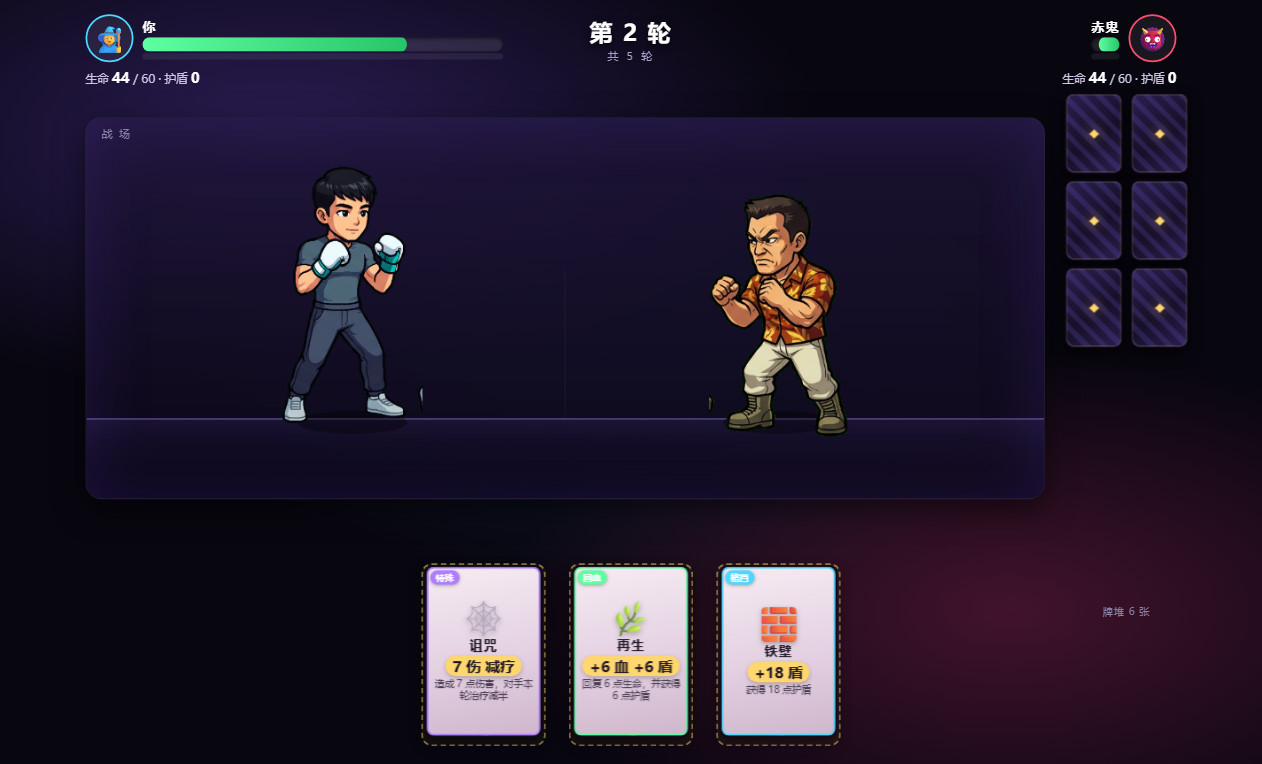
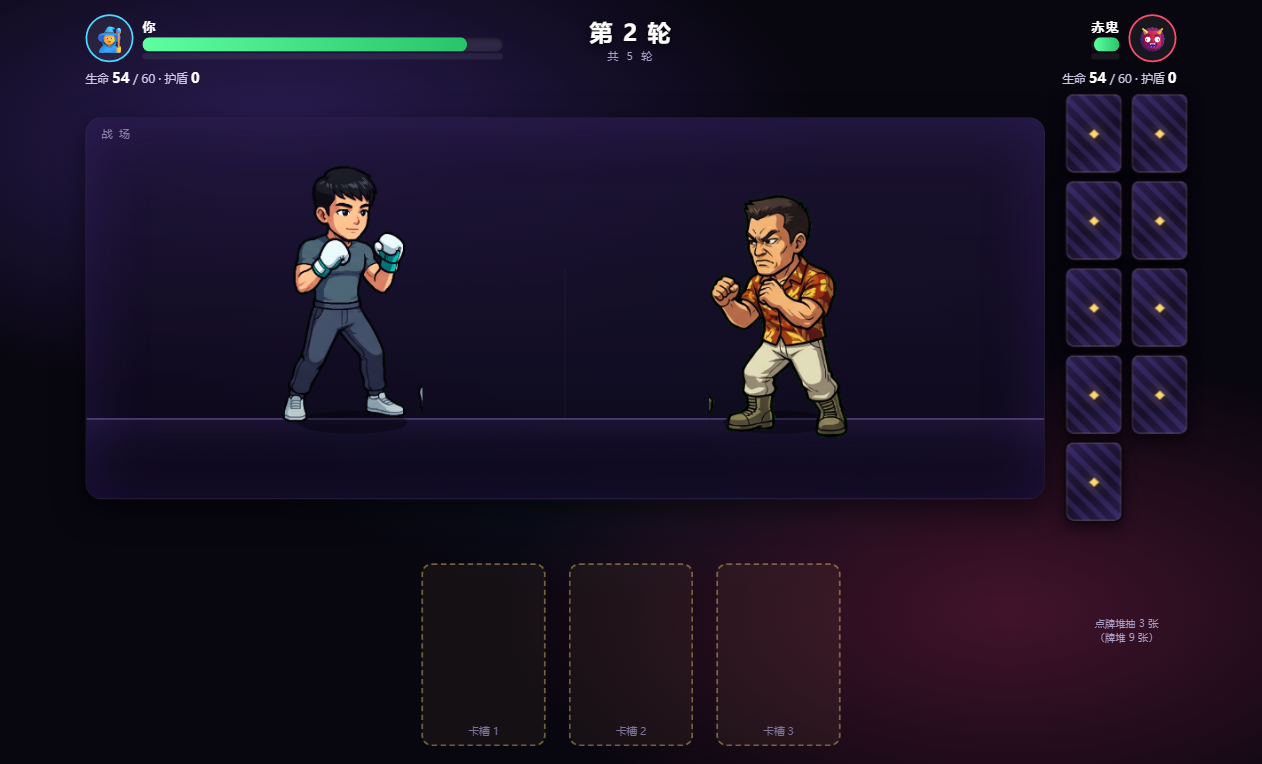
卡牌对决：抽牌改成玩家自己点（不再是自动抽）
玩家反馈："这个卡牌都成自动抽的，不是我自己选择抽的了"

第一版理解错了需求里那句"需要我点击选择了那几张卡牌" ——
当时是我自动抽 3 张飞到卡槽，玩家只能在抽出来的牌里挑一张打。
现在改成**两次都由玩家点**：
  ① 抽牌阶段：中央 12 张卡背，点哪张就抽哪张（点一次少一张，飞向卡槽并 3D 翻面）
  ② 出牌阶段：抽满 3 张后才出现"点牌出招"，点选的那张高亮、其余变暗

配套改动：
  · 新增 phase 阶段机（draw → pick → resolve）。
    ⚠ 必须显式存 phase，不能用"手牌数量"推断：飞行动画期间手牌张数是不确定的，
      靠数量判断会在动画中途把玩家放进"选牌"阶段，点下去没反应。
  · 卡背加可点反馈：悬停上浮 + 金色描边 + 手型光标；被抽走的那张淡出并立刻停止接收点击。
  · 空卡槽在抽牌阶段加金色描边，让玩家知道牌会落到哪里。
  · 状态行改成跟着阶段说人话：「点牌堆抽 N 张（牌堆 M 张）」/「三张已抽好 —— 点下面的牌出招」。
  · 删掉 syncDeckVisual()：那是自动抽牌时代用来"反推中央该剩几张"的模拟函数。
    现在中央张数**就是**真牌堆张数，两边天然一致，模拟层只会带来走偏的风险。

真跑抓出的一个死锁（只有打完 5 轮才会暴露）：
  12 张牌抽 4 轮正好抽干，第 5 轮需要重洗 —— 但重洗原来只在 drawCards 内部做，
  于是逻辑补上了牌、**中央卡背还停在 0 张**：玩家看到空牌堆、没有可点的卡，
  整局卡死在第 5 轮的抽牌阶段（无头脚本循环 90 次都停在「第 5 轮 ph=draw pick=0」）。
  修法：新增 ensureDrawable(n)，在 startRound **发牌之前**就把牌堆洗回来并重建卡背。

工具同步：
  · cardfight-shot.js 改成"自己抽牌"驱动 —— 按**真实屏幕坐标**挑左上角那张卡背来点
    （不能用 #deck .card:nth-child(n)：网格抽走一张会重排，"第 n 个"≠"第 n 格"）；
    循环上限 30 → 90（一轮 = 3 次抽牌 + 1 次出牌，30 次会在第 4 轮用尽）。
  · cardfight-check.js 72 → 77 条，新增：ensureDrawable 存在、startRound 里
    "先 ensureDrawable 再重画卡背"的顺序、有 phase 阶段机、旧模拟函数已删。

验证：cardfight-check 77/77 · CDP 整局零 JS 错误
  · 抽牌轨迹：牌堆 12 → 11 → 10 张（点一次少一张）
  · 5 轮收官 poses=ko/idle（输家倒地）· flies=15（5×3 全手抽）

diff --git a/cardfight.html b/cardfight.html
@@ -183,8 +183,16 @@ body{
       gap:6px 8px;place-content:center;transition:opacity .35s}
 #deck.gone{opacity:0}
 #deck .card{position:relative;width:66px;height:92px;--cw:66px;--ch:92px}
-#deckPile{position:absolute;right:12px;top:680px;width:140px;text-align:center;
-      font-size:11.5px;color:#8a80a8;letter-spacing:1px}
+/* 牌堆里的卡背**是可点的**（玩家自己抽），所以必须有可点的反馈：
+   悬停上浮 + 金色描边 + 手型光标；已抽走的那张淡出并立刻停止接收点击。 */
+#deck .card.pickable{cursor:pointer}
+#deck .card.pickable:hover{transform:translateY(-7px) scale(1.07);filter:brightness(1.25)}
+#deck .card.pickable:hover .back{box-shadow:inset 0 0 0 2px rgba(255,215,110,.95), 0 8px 20px rgba(0,0,0,.6)}
+#deck .card.picked{opacity:0;transform:scale(.7);transition:opacity .25s, transform .25s;pointer-events:none}
+/* 空着的卡槽在"抽牌阶段"要更显眼，让玩家知道牌会落到哪里 */
+.slot.waiting{border-color:rgba(255,215,110,.4);background:rgba(255,215,110,.05)}
+#deckPile{position:absolute;right:6px;top:694px;width:152px;text-align:center;
+      font-size:11px;color:#a99fc4;letter-spacing:.5px;line-height:1.45}
 
 /* ── 人物战场（canvas）─────────────────────────────────────────────
    延用打斗 2.0 的立绘与侧视舞台（art/fight2/*.png），所以这里是一块画布，
@@ -782,7 +790,12 @@ function newState() {
     p: { hp: MAXHP, shield: 0, charge: false, curse: false, dealt: 0 },
     e: { hp: MAXHP, shield: 0, charge: false, curse: false, dealt: 0 },
     deck: [],                        // 抽牌堆（洗过牌）
-    hand: [],                        // 本轮 3 张
+    hand: [],                        // 本轮已抽到的牌（最多 HAND 张）
+    /* phase 是这一轮的阶段机：draw（你点牌堆抽）→ pick（选一张打）→ resolve → 下一轮。
+       ⚠ 必须显式存它，不能用"手牌数量"推断：手牌张数在飞行动画期间是不确定的，
+         靠数量判断会在动画中途把玩家放进"选牌"阶段（点空白处没反应）。 */
+    phase: "draw",
+    drawn: 0,                        // 本轮已抽几张（上限 HAND）
     picked: -1,                      // 玩家选中的槽位
     eCard: null,                     // 对手本轮出的牌
     log: [],
@@ -893,38 +906,29 @@ function paintHud() {
   $("pBadges").innerHTML = badge(S.p);
   $("eBadges").innerHTML = badge(S.e);
   $("roundTxt").textContent = "第 " + S.round + " 轮";
-  $("deckPile").textContent = "牌堆 " + S.deck.length + " 张";
+  /* 牌堆标签要跟着阶段说清"现在该你做什么" —— 这里是玩家唯一会盯着看的地方 */
+  const left = HAND - (S.drawn || 0);
+  $("deckPile").textContent = (S.phase === "draw")
+    ? "点牌堆抽 " + left + " 张\n（牌堆 " + S.deck.length + " 张）"
+    : "牌堆 " + S.deck.length + " 张";
+  $("deckPile").style.whiteSpace = "pre-line";
+  /* 抽牌阶段给空卡槽加提示描边，抽满就撤掉 */
+  document.querySelectorAll("#slots .slot").forEach((el, i) => {
+    el.classList.toggle("waiting", S.phase === "draw" && i >= (S.drawn || 0));
+  });
 }
 
 /* ══════════════════════════════════════════════════════════════════
-   7. 中央牌堆：12 张卡背
-   ⚠ 这里有个坑：手牌是从 S.deck 里 pop() 出来的，而中央那 12 张卡背只是它的
-     "视觉投影"。要让视觉与真牌堆一致，必须**用同一套洗牌/抽牌逻辑模拟一遍**
-     （见 syncDeckVisual），否则会出现"抽了牌但牌堆没少"或反过来。
+   7. 中央牌堆：12 张卡背（玩家自己点着抽）
+   现在不需要"模拟牌堆"了：中央显示的张数**就是** S.deck.length，
+   玩家点掉一张，S.deck 少一张、DOM 也少一张 —— 两边天然一致。
+   （旧版是自动抽牌，得靠 syncDeckVisual 反推"应该剩几张"，
+     那种"视觉投影"很容易和真牌堆走偏，已删除。）
    ══════════════════════════════════════════════════════════════════ */
 function buildDeckVisual(n) {
   const box = $("deck");
   box.innerHTML = "";
   for (let i = 0; i < n; i++) box.appendChild(makeCard(CARDS[i % CARDS.length], true));
-}
-/** 按真牌堆重画中央卡背：模拟"每抽 3 张、抽空重洗"，得到本轮应当剩几张。
- *  返回本轮被抽走的那几张卡背元素（已从 DOM 移除，但坐标已记下）。 */
-function syncDeckVisual() {
-  const box = $("deck");
-  /* 模拟：从 12 张开始，按同样的规则一路抽到当前轮 */
-  let left = DECK;
-  const drawnThisRound = [];
-  for (let r = 1; r <= S.round; r++) {
-    for (let i = 0; i < HAND; i++) {
-      if (left <= 0) { left = DECK; buildDeckVisual(left); }   // 抽空重洗 → 视觉上也重建
-      left--;
-      if (r === S.round) drawnThisRound.push(box.children[left] || null);
-    }
-  }
-  /* 记下坐标（此刻它们还在 DOM 里、还有真实尺寸），再移除 */
-  const spots = drawnThisRound.map((el) => (el ? rectIn(el) : null));
-  drawnThisRound.forEach((el) => { if (el) el.remove(); });
-  return spots;
 }
 
 /* ══════════════════════════════════════════════════════════════════
@@ -964,6 +968,7 @@ async function flyFrom(from, toEl, delayMs) {
 /* ══════════════════════════════════════════════════════════════════
    9. 一轮的流程
    ══════════════════════════════════════════════════════════════════ */
+/** 抽 n 张进手牌。**只动逻辑，不做动画** —— 飞牌动画归 pickDrawFromDeck 管。 */
 function drawCards(n) {
   const out = [];
   for (let i = 0; i < n; i++) {
@@ -972,50 +977,93 @@ function drawCards(n) {
   }
   return out;
 }
+/** 确保牌堆至少剩 n 张；不够就把卡池洗回来（抽空循环使用）。
+    ⚠ 必须在**发牌之前**调用：12 张牌抽 4 轮正好抽干，第 5 轮需要重洗。
+     如果只在 drawCards 内部重洗，逻辑会补上牌、但**中央卡背还停在 0 张** ——
+     玩家看到的是空牌堆、没有可点的卡，整局卡死在第 5 轮的抽牌阶段
+     （实测：循环 90 次都停在「第 5 轮 ph=draw pick=0」，只有真跑才会暴露）。 */
+function ensureDrawable(n) {
+  if (S.deck.length < n) {
+    S.deck = shuffle(CARDS.map((c) => c.key));
+    buildDeckVisual(S.deck.length);        // 视觉也跟着重建，玩家才有点得着的牌
+    return true;
+  }
+  return false;
+}
+
+/** 玩家从中央 12 张卡背里**自己点选**要抽的那张。
+    需求原话："需要我点击选择了那几张卡牌，卡牌才会翻转显示技能并使用" ——
+    所以这里必须由玩家点，不能自动飞（第一版是自动抽，玩家反馈"这不是我自己选择抽的"）。
+    流程：记下被点卡背的坐标 → 从牌堆逻辑抽一张 → 飞向第一个空卡槽 → 3D 翻面。 */
+async function pickDrawFromDeck(backEl) {
+  if (S.over || S.phase !== "draw") return;
+  if (S.drawn >= HAND) return;
+  const slot = S.drawn;
+  S.drawn++;
+  /* 立即把这张卡背标成"已选中"并停止接收点击，避免连点抽超 */
+  backEl.classList.add("picked");
+  const src = rectIn(backEl);
+  const key = drawCards(1)[0];
+  S.hand[slot] = key;
+  backEl.remove();                                   // 视觉上从中间牌堆消失
+  const slots = Array.from(document.querySelectorAll(".slot"));
+  await flyFrom(src, slots[slot], 0);
+  const cardEl = makeCard(CARD_BY_KEY[key], true);
+  cardEl.dataset.slot = slot;
+  slots[slot].appendChild(cardEl);
+  await sleep(160);
+  flip(cardEl, true);                                // 3D 翻面
+  await sleep(140);
+  paintHud();
+  if (S.drawn >= HAND) {
+    /* 三张都抽完了 → 交给"选一张出招"阶段 */
+    S.phase = "pick";
+    document.querySelectorAll("#deck .card").forEach((el) => el.classList.remove("pickable"));
+    document.querySelectorAll("#slots .card").forEach((el) => {
+      el.classList.add("pickable");
+      el.addEventListener("click", () => pickCard(Number(el.dataset.slot)));
+    });
+    showCallout("选 一 张 出 手");
+    /* 状态行同步（hintNow 走的是 paintHud → 这里补一句提示） */
+    $("deckPile").textContent = "三张已抽好 —— 点下面的牌出招";
+  } else {
+    showCallout("再 抽 " + (HAND - S.drawn) + " 张");
+  }
+}
 
 async function startRound() {
   if (S.over) return;
   S.picked = -1;
   S.eCard = null;
+  S.hand = [];
+  S.drawn = 0;
+  S.phase = "draw";                                  // draw（你来抽）| pick（选一张打）
   $("foeCard").innerHTML = "";
   $("foeLabel").classList.remove("on");
-  paintHud();
-
-  /* 抽 3 张（真牌堆），同时拿到中央那 3 张卡背的坐标 */
-  S.hand = drawCards(HAND);
   const slots = Array.from(document.querySelectorAll(".slot"));
   slots.forEach((s) => {
     const old = s.querySelector(".card");
     if (old) old.remove();
     s.classList.remove("hot");
   });
-  const srcs = syncDeckVisual();
-  /* 中央卡背 = 真牌堆剩余的张数（视觉与真值一致；吸干后重洗会重建回 12 张） */
+  /* 中央牌背 = 真牌堆剩余的张数（视觉与真值一致）。
+     ⚠ 先 ensureDrawable：第 5 轮会把 12 张抽干，必须**在发牌前**重洗并重建卡背，
+       否则玩家看到空牌堆、无牌可点（实测整局卡死在这一步）。 */
+  ensureDrawable(1);
   buildDeckVisual(S.deck.length);
+  document.querySelectorAll("#deck .card").forEach((el) => {
+    el.classList.add("pickable");
+    el.addEventListener("click", () => pickDrawFromDeck(el));
+  });
   paintHud();
-
-  /* 一张一张飞过去 → 落位 → 3D 翻面 */
-  for (let i = 0; i < HAND; i++) {
-    const src = srcs[i] || { x: 640, y: 300, w: 112, h: 164 };
-    await flyFrom(src, slots[i], i * 150);
-    const cardEl = makeCard(CARD_BY_KEY[S.hand[i]], true);
-    cardEl.classList.add("pickable");
-    cardEl.dataset.slot = i;
-    slots[i].appendChild(cardEl);
-    slots[i].classList.add("hot");
-    await sleep(170);
-    flip(cardEl, true);                                 // 3D 翻面
-    cardEl.addEventListener("click", () => pickCard(i));
-    await sleep(150);
-  }
-  await sleep(260);
-  showCallout("选 一 张 出 手");
+  showCallout("点 牌 堆 抽 三 张");
 }
 
-/** 玩家点选一张牌：选中高亮、其余变暗，然后自动进入结算 */
+/** 玩家点选要打出的那张：选中高亮、其余变暗，然后自动进入结算 */
 function pickCard(i) {
-  if (S.picked >= 0 || S.over) return;
+  if (S.picked >= 0 || S.over || S.phase !== "pick") return;
   S.picked = i;
+  S.phase = "resolve";
   document.querySelectorAll("#slots .card").forEach((el) => {
     const idx = Number(el.dataset.slot);
     el.classList.toggle("chosen", idx === i);
@@ -1235,6 +1283,7 @@ function endGame() {
    ══════════════════════════════════════════════════════════════════ */
 async function begin() {
   S = newState();
+  window.S = S;                    // 同上：让无头脚本能读到阶段（每局重建后要重新挂）
   S.deck = shuffle(CARDS.map((c) => c.key));
   $("result").classList.remove("on");
   $("foeCard").innerHTML = "";
@@ -1269,6 +1318,9 @@ $("againBtn").addEventListener("click", () => {
    另外挂一个**不显眼但可探测**的计数器：动画/异步流程出错时很容易被"看起来没事"掩盖，
    调试时（tools/dev/cardfight-shot.js）靠 window.__dbg 判断内部流程到底走到哪一步了。 */
 window.__dbg = { flies: 0, flips: 0, rounds: 0, errors: [] };
+/* 把当前状态挂到 window，供 tools/dev/cardfight-shot.js 判断"现在哪个阶段"。
+   纯只读观测口，不参与游戏逻辑（无头脚本靠它决定"该抽牌还是该出牌"）。 */
+window.S = S;
 window.addEventListener("error", (e) => {
   const d = $("err");
   d.style.display = "block";

diff --git a/tools/dev/cardfight-shot.js b/tools/dev/cardfight-shot.js
@@ -102,18 +102,33 @@ function getJson(url) {
   console.log("    立绘加载 = " + okCount + "/" + arr.length + (okCount === arr.length ? " ✔" : " ✘ 缺失：" + JSON.stringify(arr.filter((a) => !a[1]).map((a) => a[0]))));
   console.log("    战场画布 = " + await evaluate('(function(){var c=document.getElementById("arena");return c.width+"x"+c.height})()'));
 
-  console.log("阶段 3：等抽牌飞入 + 翻面");
-  /* 在**动画中途**取一帧：此时应当有卡背幽灵在飞（getAnimations 非空）。
-     只截图看不出"是飞过去的还是瞬间出现的"，所以这里直接问浏览器要动画列表。 */
-  await sleep(520);
-  /* ⚠ 探测飞牌动画要用 **document.getAnimations()**：
-     `#stage.getAnimations()` 只返回挂在 #stage 自身上的动画，不含后代 ——
-     幽灵卡是 #stage 的子元素，所以那个写法永远得 0（我第一版就误判成"牌是瞬现的"，
-     实际 window.__dbg.flies 证明动画在跑）。 */
-  const midAnim = await evaluate("document.getAnimations().length");
-  console.log("    动画中(document.getAnimations) = " + midAnim);
-  await shot("03a-flying.png");
-  await sleep(2900);
+  console.log("阶段 3：自己抽 3 张（点牌堆卡背）→ 飞入 + 翻面");
+  /* 按**真实屏幕坐标**挑左上角最靠前的那张卡背来点。
+     ⚠ 不要用 `#deck .card:nth-child(n)`：网格是 grid-auto-flow，
+       抽走一张之后其余会重排，"第 n 个"与"第 n 格"不是一回事。 */
+  const tapBack = `(function(){
+    var s = document.getElementById("stage").getBoundingClientRect();
+    var k = s.width / 1280;
+    var list = [].slice.call(document.querySelectorAll("#deck .card.pickable"));
+    list.sort(function(a,b){
+      var ra=a.getBoundingClientRect(), rb=b.getBoundingClientRect();
+      return (ra.top-rb.top) || (ra.left-rb.left);
+    });
+    var el = list[0];
+    if (!el) return "none";
+    var r = el.getBoundingClientRect();
+    var opt = {bubbles:true, cancelable:true, clientX:r.left+r.width/2, clientY:r.top+r.height/2};
+    el.dispatchEvent(new MouseEvent("click", opt));
+    return Math.round(r.left) + "," + Math.round(r.top);
+  })()`;
+  for (let i = 0; i < 3; i++) {
+    const at = await evaluate(tapBack);
+    const left = await evaluate('document.getElementById("deckPile").textContent');
+    console.log("    抽第 " + (i + 1) + " 张 → 点的位置 " + at + " · 提示「" + left + "」");
+    await sleep(900);
+    if (i === 0) await shot("03a-flying.png");
+  }
+  await sleep(900);
   await shot("03-hand.png");
   const st3 = await evaluate(`JSON.stringify({
     slots: document.querySelectorAll("#slots .card").length,
@@ -124,7 +139,7 @@ function getJson(url) {
   })`);
   console.log("    " + st3);
 
-  console.log("阶段 4：点第一张牌 → 对手出牌 + 结算");
+  console.log("阶段 4：点第一张手牌 → 对手出牌 + 结算");
   await evaluate('document.querySelector("#slots .card").click()');
   await sleep(2600);
   await shot("04-foe.png");
@@ -161,20 +176,31 @@ function getJson(url) {
      只跑到第 2 轮不足以证明"一局能结束"（可能在第 4 轮某处卡住不动）。
      每轮点第一张手牌，然后等"轮次文字变化"或"结果面板出现"，最多等 12 秒。 */
   console.log("阶段 6：打完剩下的轮次，验证结果面板");
-  let guard = 0;
-  while (guard++ < 30) {
+  /* ⚠ 循环上限要够：一轮 = 3 次抽牌 + 1 次出牌 + 若干次等待，5 轮至少 20+ 次迭代。
+     原来写 30 会在第 4 轮用尽（实测 over:false、flies=12 而不是 15）。 */
+  let guard = 0, lastRound = "", stallLog = [];
+  while (guard++ < 90) {
     if (await evaluate('document.getElementById("result").classList.contains("on")')) break;
-    const has = await evaluate('document.querySelectorAll("#slots .card").length');
-    if (!has) { await sleep(400); continue; }
-    const before = await evaluate('document.getElementById("roundTxt").textContent');
-    await evaluate('(function(){var e=document.querySelectorAll("#slots .card"); if(e.length) e[0].click();})()');
-    for (let w = 0; w < 24; w++) {
-      await sleep(500);
-      const now = await evaluate('document.getElementById("roundTxt").textContent');
-      const over = await evaluate('document.getElementById("result").classList.contains("on")');
-      if (over || now !== before) break;
+    const probe = await evaluate('JSON.stringify({ph:(window.S?S.phase:"?"),d:(window.S?S.drawn:-1),slot:document.querySelectorAll("#slots .card").length,pick:document.querySelectorAll("#deck .card.pickable").length,r:document.getElementById("roundTxt").textContent})');
+    const P = JSON.parse(probe);
+    if (guard % 10 === 0 || guard > 60) stallLog.push(guard + ":" + probe);
+    const need = P.ph === "draw" ? (3 - P.d) : 0;
+    if (need > 0) { await evaluate(tapBack); await sleep(1000); continue; }
+    if (P.ph === "pick") {
+      lastRound = P.r;
+      await evaluate('(function(){var e=document.querySelectorAll("#slots .card"); if(e.length) e[0].click();})()');
+      for (let w = 0; w < 30; w++) {
+        await sleep(500);
+        const st = await evaluate('JSON.stringify({r:document.getElementById("roundTxt").textContent,o:document.getElementById("result").classList.contains("on")})');
+        const o = JSON.parse(st);
+        if (o.o || o.r !== lastRound) break;
+      }
+      continue;
     }
+    await sleep(400);
   }
+  console.log("    （循环 " + guard + " 次）");
+  if (stallLog.length) console.log("    阶段轨迹: " + stallLog.join(" | "));
   const fin = await evaluate(`JSON.stringify({
     over: document.getElementById("result").classList.contains("on"),
     ttl: document.getElementById("rTtl").textContent,

diff --git a/tools/dev/cardfight-check.js b/tools/dev/cardfight-check.js
@@ -242,6 +242,21 @@ console.log("\n【牌堆循环】");
   A(drawn === 15, "5 轮共抽出 15 张（每轮 3 张）", "抽出 " + drawn);
   A(reshuffles === 1, "12 张的牌堆在第 5 轮前恰好重洗 1 次（不会抽空断牌）", "重洗 " + reshuffles + " 次");
 }
+/* ⚠ 玩家自己抽牌之后新增的坑：重洗必须发生在**发牌之前**。
+   只在 drawCards 内部重洗的话，逻辑会补牌、但中央卡背还停在 0 张 ——
+   玩家看到空牌堆、没有可点的卡，整局卡死在第 5 轮的抽牌阶段。
+   （实测：无头脚本循环 90 次都停在「第 5 轮 ph=draw pick=0」。） */
+{
+  A(/function ensureDrawable/.test(script), "有 ensureDrawable（发牌前保证牌堆够用）");
+  A(/ensureDrawable\(1\);[\s\S]{0,120}buildDeckVisual\(S\.deck\.length\)/.test(script),
+    "startRound 里**先** ensureDrawable 再重画卡背（顺序反了就会卡死）");
+  A(/function pickDrawFromDeck/.test(script) && /S\.phase = "draw"/.test(script),
+    "抽牌是玩家点牌堆触发的（pickDrawFromDeck + phase 阶段机）");
+  A(!/function syncDeckVisual/.test(script),
+    "旧的「模拟牌堆」函数已删除（玩家自己抽之后，中央张数就是真牌堆张数）");
+  A(/S\.phase = "pick"/.test(script) && /S\.phase !== "pick"/.test(script),
+    "抽满 3 张后才允许出牌（phase !== pick 时 pickCard 直接返回）");
+}
 
 /* ── ⑤ 5 轮结束 / 生命归零两种终局都要有出口 ─────────────────────── */
 console.log("\n【终局】");
